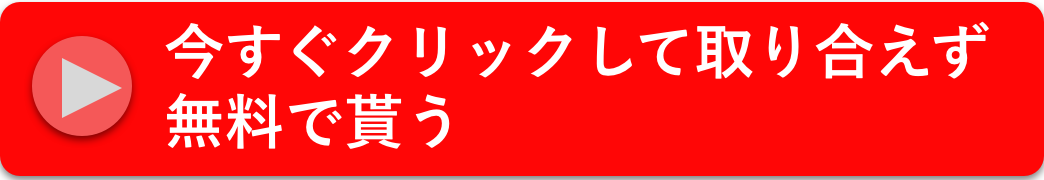
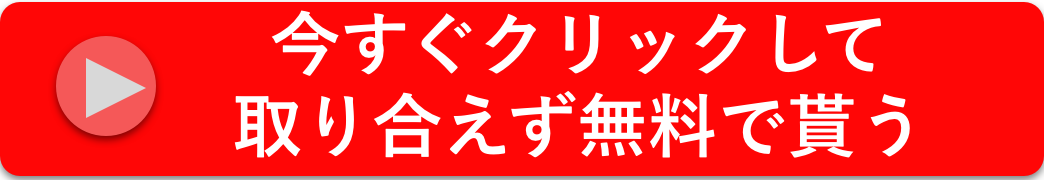
ch

Changed region(s): [[0.0307, 0.0556, 0.9502, 0.8889]]

diff --git a/style.css b/style.css
@@ -123,7 +123,7 @@ input[type="text"] {
     background-size: contain;
     background-color: #ffffff;
     line-height: 15px;
-    text-align: right;
+    text-align: center;
     width:65%;
     height: 25px;
 }
